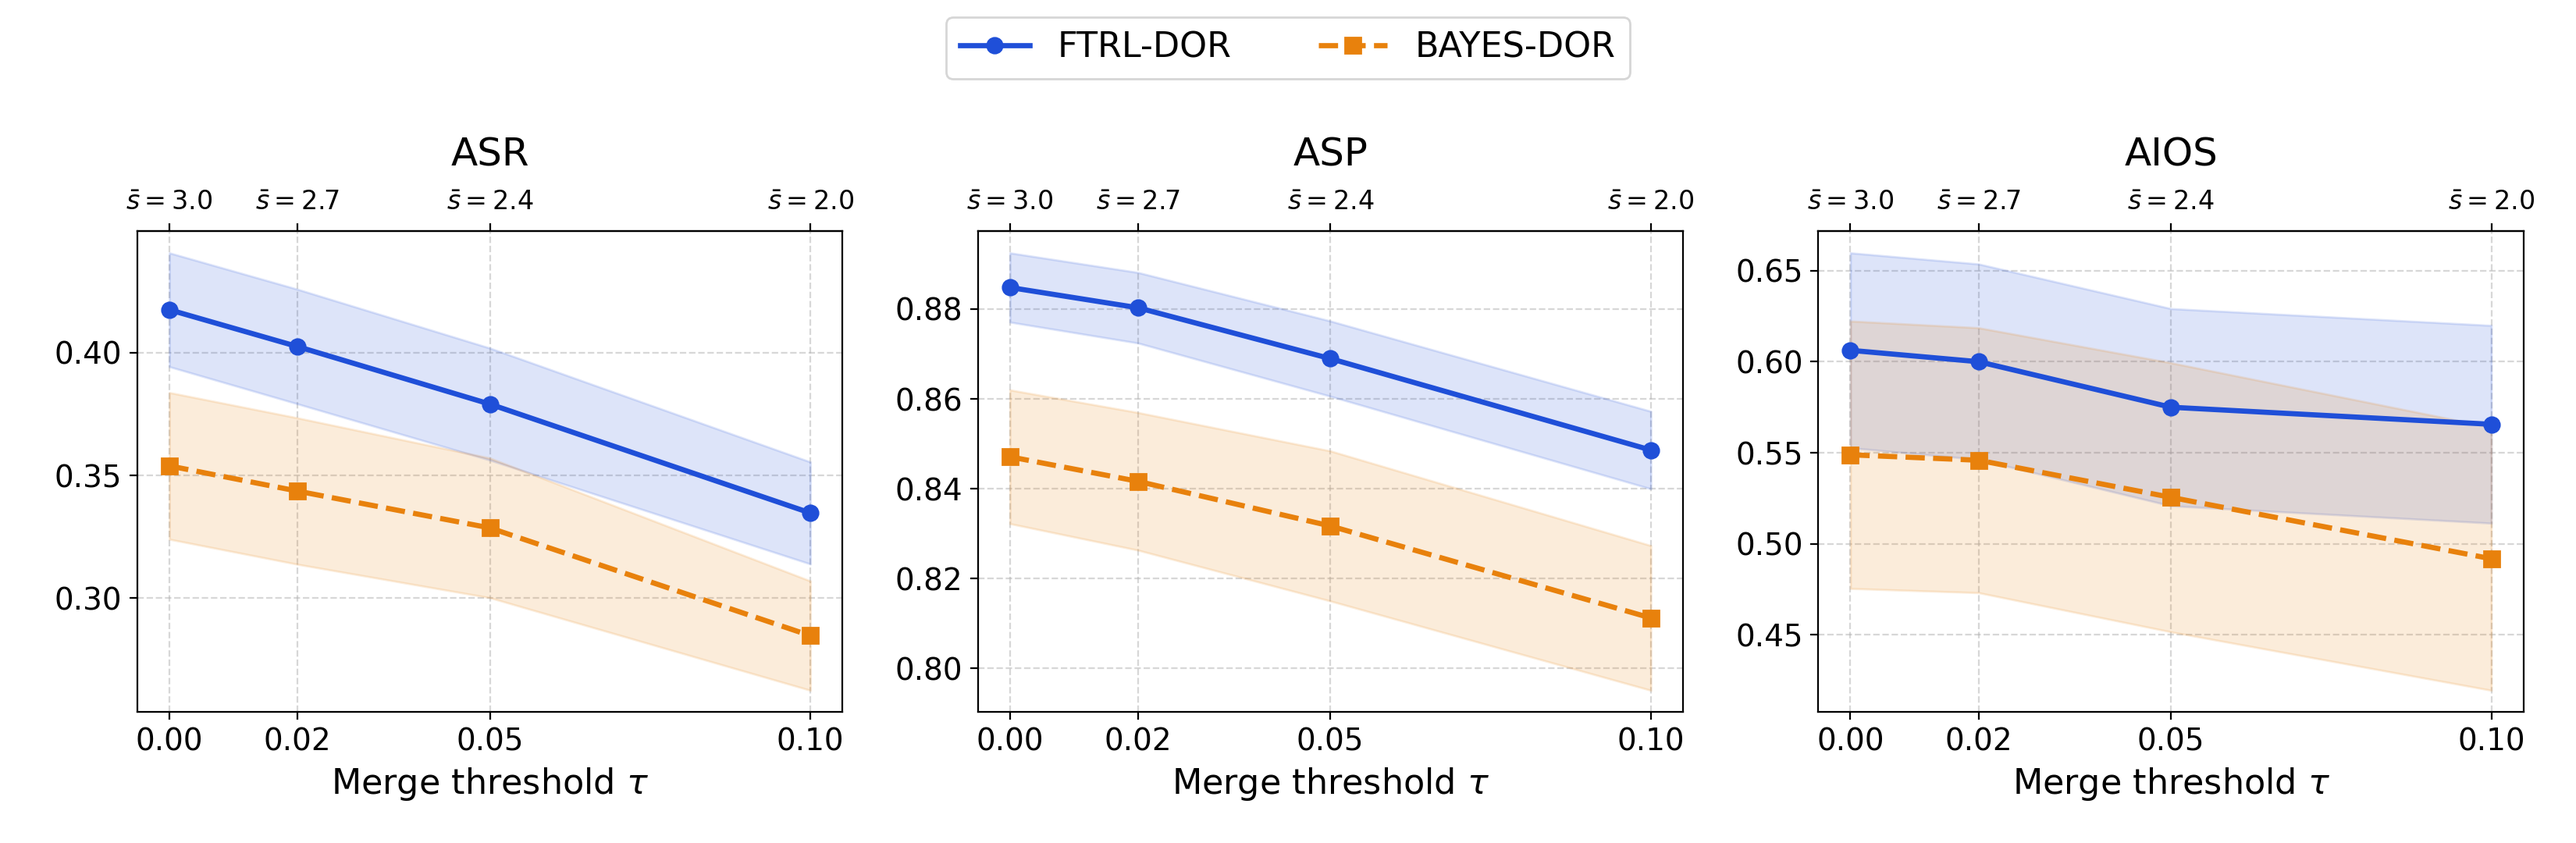
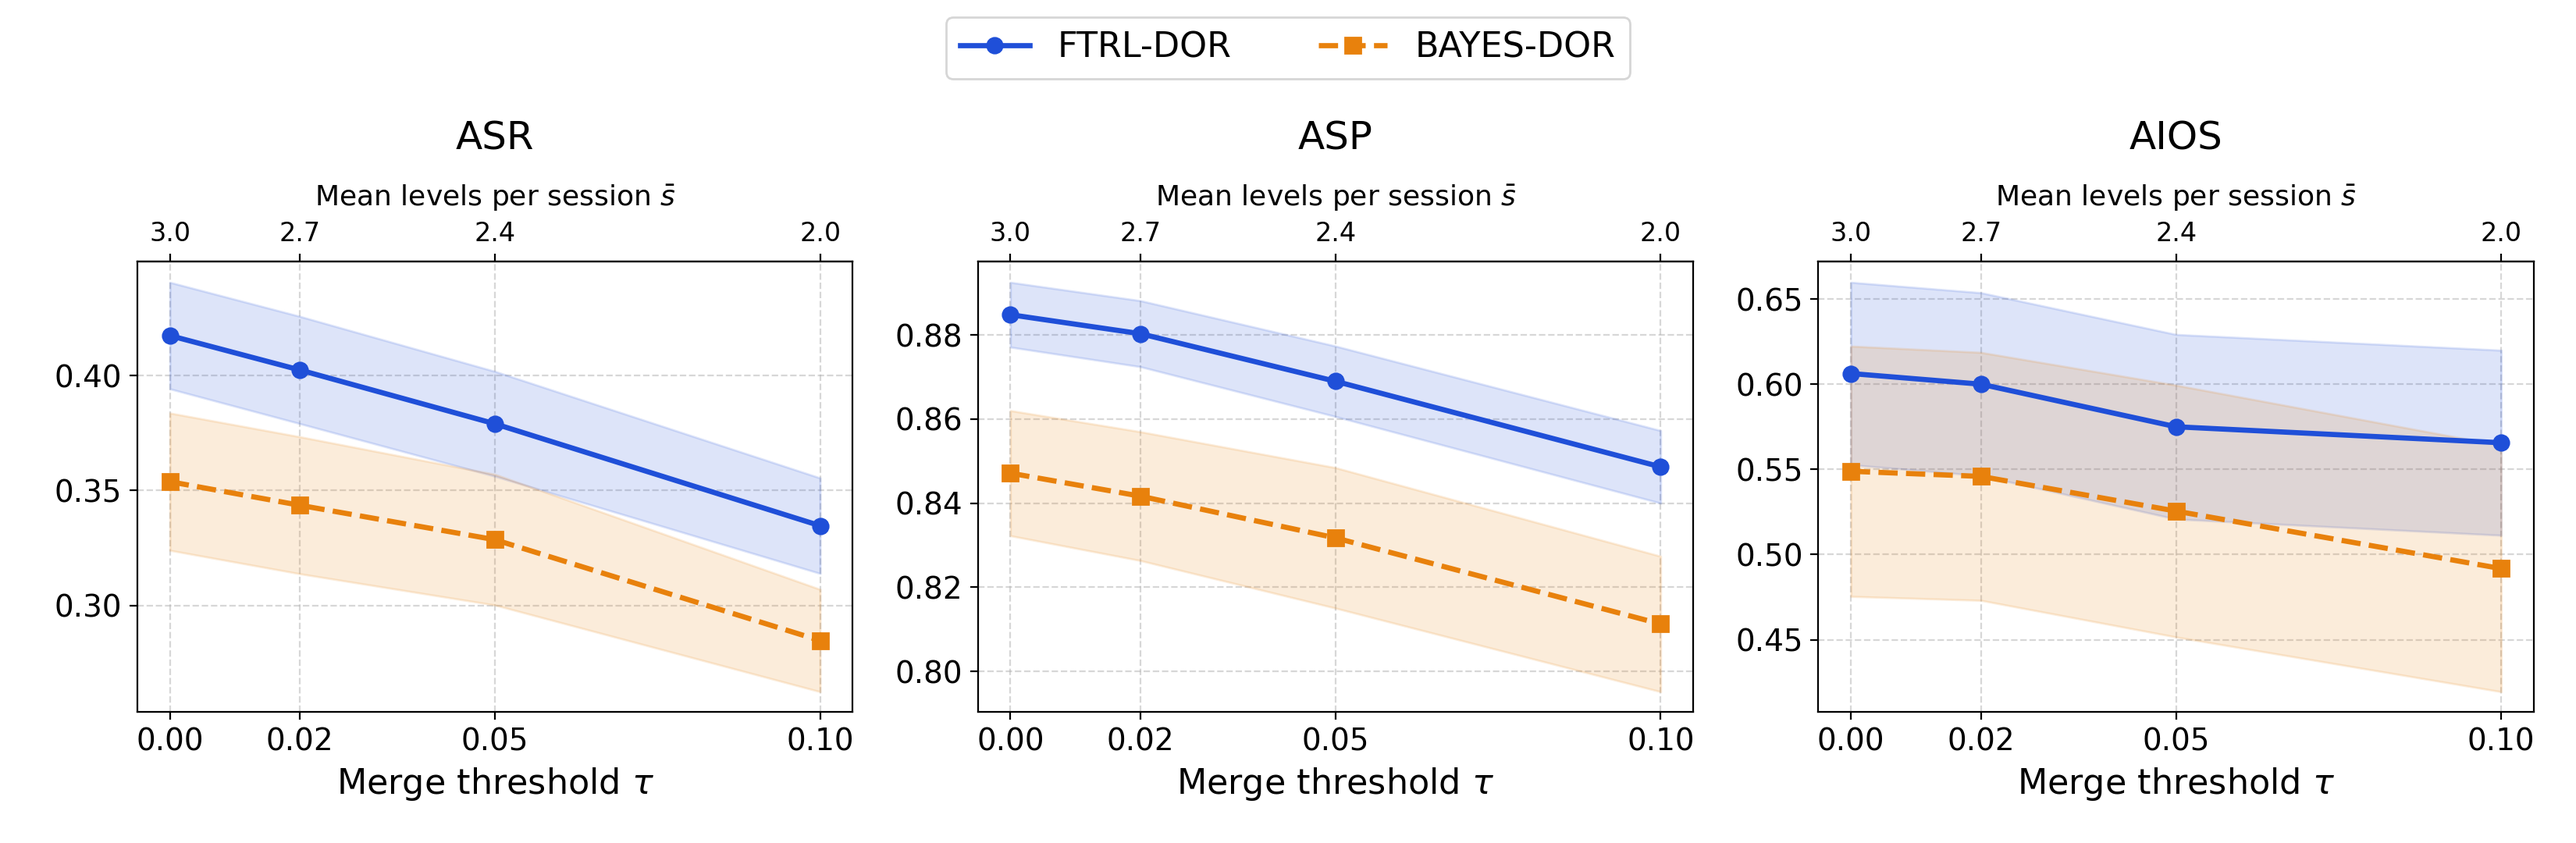
Regret-only log-loss figure + labelled tau top axis
fig_logloss_v1 now plots the regret itself (per-table prequential loss minus
per-table hindsight ML loss) on a logarithmic n_T axis, with a straight
prop-to-log reference and a prop-to-n reference that exits the panel --
sublinear growth is visible at a glance. hindsight_loss gains return_curves
for the per-table computation. fig_sets_tau_v1 top axis now carries the
"Mean levels per session s-bar" label.

diff --git a/make_paper_figs_v1.py b/make_paper_figs_v1.py
@@ -180,39 +180,61 @@ def fig_baselines(results):
 
 # -------------------------------------------------------------- fig_logloss
 def fig_logloss(results):
+    """Regret (cumulative prequential loss minus best-fixed-in-hindsight loss)
+    on a log n_T axis -- logarithmic growth = straight line."""
+    from matplotlib.ticker import ScalarFormatter
     from analyze_joint_v1 import hindsight_loss
     F1, F2, K = 10, 3, 5
     incs = [0, 50]
     n_tab = 5  # tables common to the BAYES and FTRL arms
-    fig, axes = plt.subplots(1, len(incs), figsize=(14, 5.4), sharex=True)
+    fig, axes = plt.subplots(1, len(incs), figsize=(14, 5.6))
     gaps = {}
     for ax, inc in zip(axes, incs):
         cs = f"F1={F1}_F2={F2}_S=10_AR={K}_K={K}_Inc={inc}"
         arms = results.get(cs, {})
-        n_t = None
+        hs_curves = hindsight_loss(f"grid_{cs}", F1, F2, 10, n_tab, 'adjacent',
+                                   return_curves=True)   # n_tab x steps
+        gaps[(inc, 'hindsight', 'final')] = hs_curves.mean(axis=0)[-1]
+        n_t, reg_top, ftrl_rm = None, 0.0, None
         for arm in ['FTRL_DOR_ADJJ1', 'BAYES_DOR_ADJJ1']:
             st = STYLE[arm]
             loss = np.array(arms[arm]['log_loss'], dtype=float)[:, :n_tab]  # steps x tab x 2
             cum = np.cumsum(loss[:, :, 0], axis=0)
             n_t = np.cumsum(loss[:, :, 1], axis=0).mean(axis=1)
-            m = cum.mean(axis=1)
-            se = cum.std(axis=1) / np.sqrt(n_tab)
-            ax.plot(n_t, m, color=st['color'], ls=st['ls'], marker=st['marker'],
+            gaps[(inc, arm, 'final')] = cum.mean(axis=1)[-1]
+            reg = cum - hs_curves.T                       # steps x tab
+            rm = reg.mean(axis=1)
+            rse = reg.std(axis=1) / np.sqrt(n_tab)
+            ax.plot(n_t, rm, color=st['color'], ls=st['ls'], marker=st['marker'],
                     label=st['label'])
-            ax.fill_between(n_t, m - 1.96 * se, m + 1.96 * se, color=st['color'], alpha=0.15)
-            gaps[(inc, arm, 'final')] = m[-1]
-        hs = hindsight_loss(f"grid_{cs}", F1, F2, 10, n_tab, 'adjacent')
-        ax.plot(n_t, hs, color='k', ls=':', lw=2.6, label='Best fixed in hindsight')
-        gaps[(inc, 'hindsight', 'final')] = hs[-1]
+            ax.fill_between(n_t, rm - 1.96 * rse, rm + 1.96 * rse,
+                            color=st['color'], alpha=0.15)
+            reg_top = max(reg_top, np.max(rm + 1.96 * rse))
+            if arm == 'FTRL_DOR_ADJJ1':
+                ftrl_rm = rm
+        # references: straight-in-log-x chord through the FTRL endpoints, and
+        # linear growth anchored at the first FTRL point (exits the panel top)
+        guide = ftrl_rm[0] + (ftrl_rm[-1] - ftrl_rm[0]) \
+            * (np.log(n_t) - np.log(n_t[0])) / (np.log(n_t[-1]) - np.log(n_t[0]))
+        ax.plot(n_t, guide, color='0.45', ls='--', lw=1.8,
+                label=r'$\propto \log n_T$ reference')
+        lin = ftrl_rm[0] * n_t / n_t[0]
+        ax.plot(n_t, lin, color='0.45', ls=':', lw=2.2,
+                label=r'$\propto n_T$ reference')
+        ax.set_ylim(top=reg_top * 1.18)
         ax.set_title(f"Inconsistency = {inc}%", fontsize=17, pad=8)
-        ax.set_xlabel(r"$n_T$ (cumulative gap observations)")
+        ax.set_xscale('log')
+        ax.set_xticks([4, 8, 16, 40])
+        ax.xaxis.set_major_formatter(ScalarFormatter())
+        ax.minorticks_off()
+        ax.set_xlabel(r"$n_T$ (cumulative gap observations, log scale)")
         ax.grid(True)
         ax.set_axisbelow(True)
-    axes[0].set_ylabel("Cumulative log-loss")
+    axes[0].set_ylabel("Regret")
     handles, labels = axes[0].get_legend_handles_labels()
     fig.legend(handles, labels, loc='upper center', bbox_to_anchor=(0.5, 1.0),
-               ncol=3, fontsize=15, frameon=True, columnspacing=1.8)
-    fig.tight_layout(rect=[0, 0, 1, 0.89])
+               ncol=4, fontsize=14, frameon=True, columnspacing=1.6)
+    fig.tight_layout(rect=[0, 0, 1, 0.88])
     fig.savefig(os.path.join(OUT, "fig_logloss_v1.png"), dpi=DPI)
     plt.close(fig)
     print("Wrote paper_figs/fig_logloss_v1.png")
@@ -266,16 +288,17 @@ def fig_sets_tau():
             ax.fill_between(taus, means - cis, means + cis, color=st['color'], alpha=0.15)
         ax.set_xticks(taus)
         ax.set_xlabel(r"Merge threshold $\tau$")
-        ax.set_title(MET_LABEL[metric], fontsize=18, pad=30)
+        ax.set_title(MET_LABEL[metric], fontsize=18, pad=52)
         ax.grid(True)
         ax.set_axisbelow(True)
         sec = ax.secondary_xaxis('top')
         sec.set_xticks(taus)
-        sec.set_xticklabels([rf"$\bar{{s}}={slev[t]:.1f}$" for t in taus], fontsize=12)
+        sec.set_xticklabels([f"{slev[t]:.1f}" for t in taus], fontsize=12)
+        sec.set_xlabel(r"Mean levels per session $\bar{s}$", fontsize=13, labelpad=7)
     handles, labels = axes[0].get_legend_handles_labels()
     fig.legend(handles, labels, loc='upper center', bbox_to_anchor=(0.5, 1.0),
                ncol=2, fontsize=16, frameon=True, columnspacing=2.5)
-    fig.tight_layout(rect=[0, 0, 1, 0.88])
+    fig.tight_layout(rect=[0, 0, 1, 0.90])
     fig.savefig(os.path.join(OUT, "fig_sets_tau_v1.png"), dpi=DPI)
     plt.close(fig)
     print("Wrote paper_figs/fig_sets_tau_v1.png")

diff --git a/analyze_joint_v1.py b/analyze_joint_v1.py
@@ -117,9 +117,10 @@ def plot_evolution(results):
         print(f"Wrote {OUT_DIR}/evolution_{metric}.png")
 
 
-def hindsight_loss(dataset_fold, f1, f2, steps, hm, expansion):
-    """Best-fixed-in-hindsight cumulative loss per step (mean over tables):
-    ML fit (no prior) on ALL steps' data, then its cumulative batch losses."""
+def hindsight_loss(dataset_fold, f1, f2, steps, hm, expansion, return_curves=False):
+    """Best-fixed-in-hindsight cumulative loss per step (mean over tables, or
+    the per-table curves if return_curves): ML fit (no prior) on ALL steps'
+    data, then its cumulative batch losses."""
     from scipy.optimize import minimize as sp_minimize
     import jax, jax.numpy as jnp
     from common import utils
@@ -159,7 +160,7 @@ def hindsight_loss(dataset_fold, f1, f2, steps, hm, expansion):
         per_step = [float(-jnp.sum(_jax_log_prob_per_obs(om_star, X, e, n_params, ETA_MAX, RHO)))
                     for X, e in batches]
         curves.append(np.cumsum(per_step))
-    return np.mean(curves, axis=0)
+    return np.array(curves) if return_curves else np.mean(curves, axis=0)
 
 
 def plot_logloss(results, with_hindsight=True):
